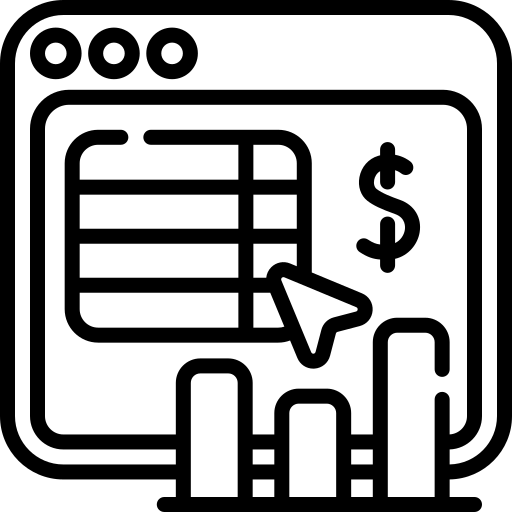
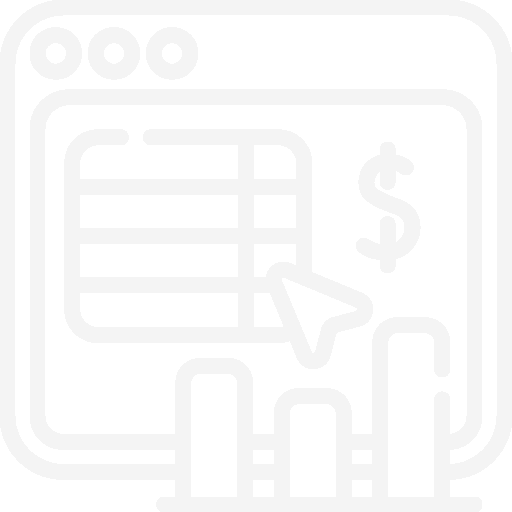
modifica outros entregaveis

diff --git a/index.html b/index.html
@@ -361,11 +361,6 @@
     </div>
 
     <div class="topico-curso">
-      <img src="./assets/por-dentro-do-curso/estabilidade-financeira.png" alt="balança com dinheiro dos lados">
-      <p>Conquiste sua estabilidade financeira</p>
-    </div>
-
-    <div class="topico-curso">
       <img src="./assets/por-dentro-do-curso/usar-reserva.png" alt="porquinho com dinheiro">
       <p>Aprenda a usar sua reserva</p>
     </div>
@@ -396,15 +391,20 @@
         <caption>Empresarial</caption>
       </div>
     </div>
-    <p>As planilhas vão ter <strong>exatamente</strong> o que você precisa, sem complicar ou confundir. E não se
-      preocupe se você nunca usou uma planilha, elas serão explicadas e detalhadas durante o treinamento.</p>
+    <p>As planilhas vão ter <strong>exatamente</strong> o que você precisa.
+      <br>
+      <br>
+      Sem complicar ou confundir.
+      <br>
+      <br>
+      E não se preocupe se você nunca usou uma planilha, elas serão explicadas e detalhadas durante o treinamento.
+    </p>
     <a href="#oferta">
       <div class="link-internal-div">
         <span>Quero me organizar</span>
-        <img src="./assets/seta-2.png" alt="seta">
+        <img src="./assets/seta.png" alt="seta">
       </div>
     </a>
-
   </section>
 
   <section class="ancorar-valor">

diff --git a/index.css b/index.css
@@ -293,6 +293,8 @@ header h1 {
 }
 
 .outros-entregaveis {
+  background-color: var(--dark);
+  color: var(--light);
   padding: 20px;
   display: flex;
   flex-direction: column;
@@ -304,9 +306,9 @@ header h1 {
 }
 
 .outros-entregaveis h2 {
-  font-size: 30px;
+  font-size: 25px;
   text-align: center;
-  color: var(--info);
+  color: var(--secondary);
   display: flex;
   flex-direction: column;
 }
@@ -332,12 +334,12 @@ header h1 {
 .outros-entregaveis a {
   margin-top: 20px;
   margin-bottom: 10px;
-  color: var(--primary);
+  color: var(--secondary);
   text-decoration: none;
   text-transform: uppercase;
   font-weight: 600;
   align-self: center;
-  border: 3px solid var(--primary);
+  border: 3px solid var(--secondary);
   padding: 10px;
   padding-left: 25px;
   padding-right: 25px;
